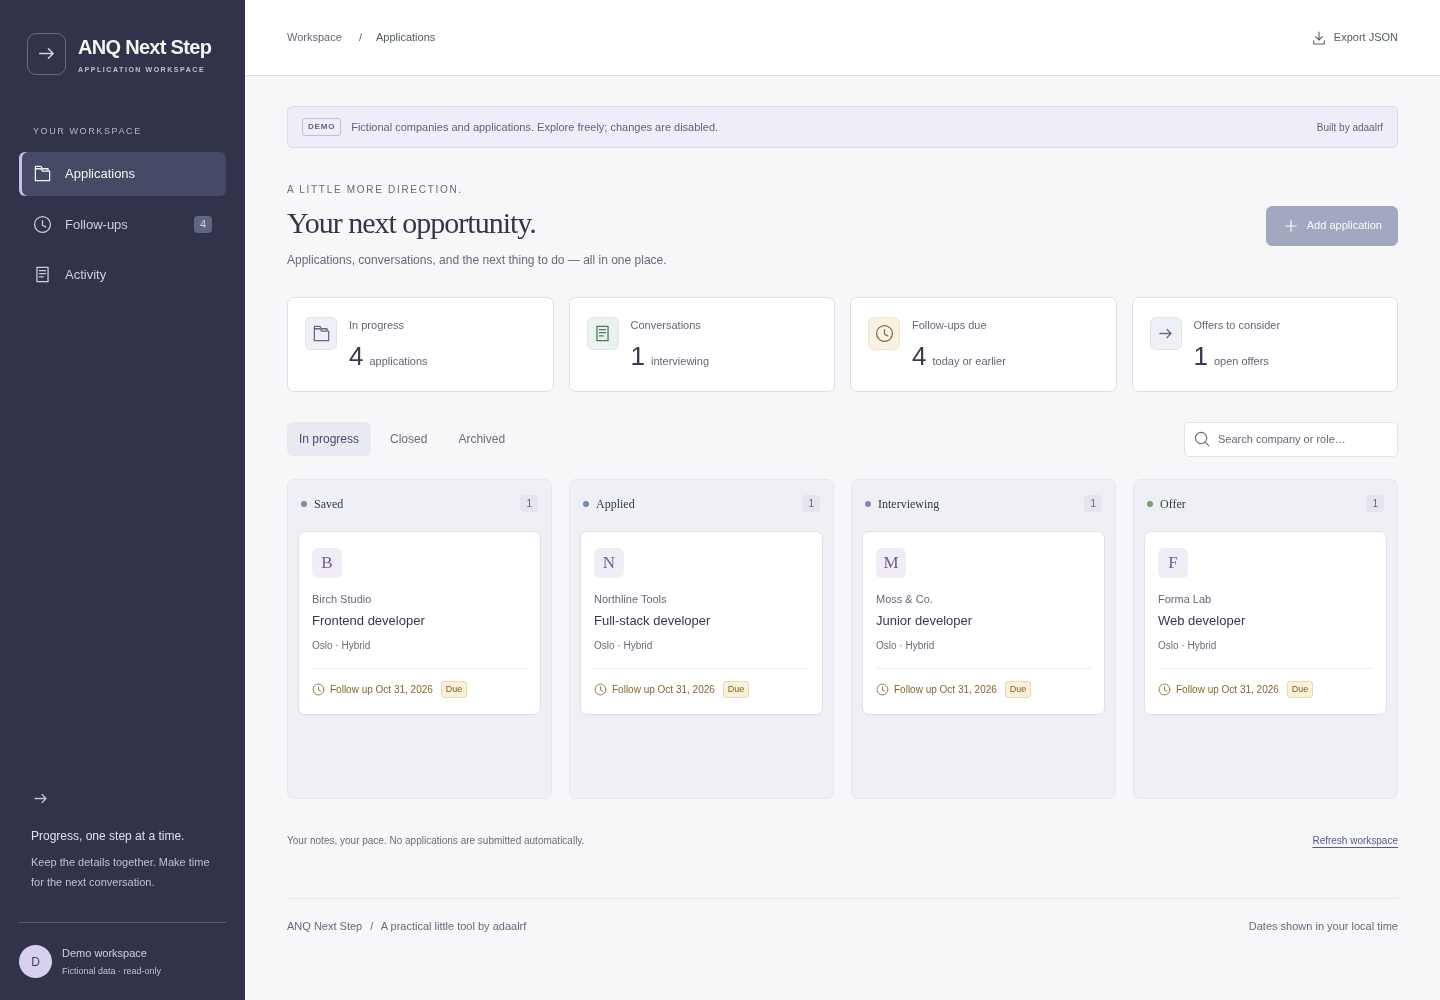
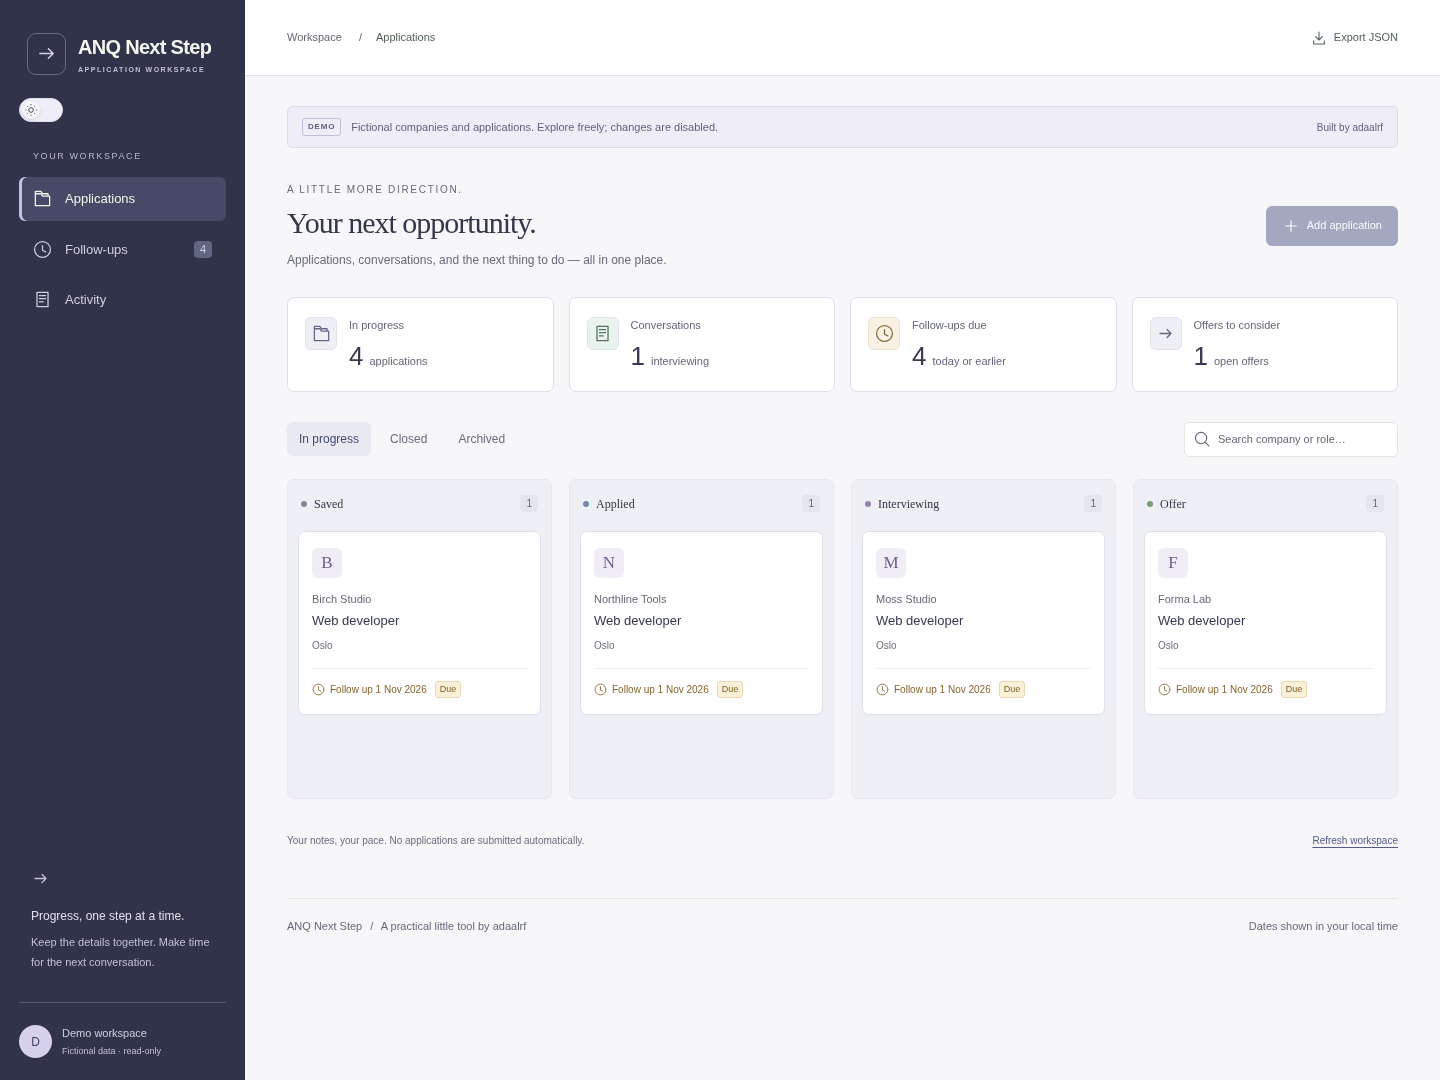
docs(tracker): refresh screenshots and isolate test captures

diff --git a/tests/browser.ts b/tests/browser.ts
@@ -205,9 +205,9 @@ try {
     })),
     [],
   );
-  await mkdir('docs/screenshots', { recursive: true });
+  await mkdir('test-results/screenshots', { recursive: true });
   await page.screenshot({
-    path: 'docs/screenshots/pipeline-desktop.png',
+    path: 'test-results/screenshots/pipeline-desktop.png',
     fullPage: true,
   });
   for (const width of [390, 768]) {
@@ -220,7 +220,7 @@ try {
   }
   await page.setViewportSize({ width: 390, height: 844 });
   await page.screenshot({
-    path: 'docs/screenshots/pipeline-mobile.png',
+    path: 'test-results/screenshots/pipeline-mobile.png',
     fullPage: true,
   });
   await workspaceLink(page, 'Activity');
